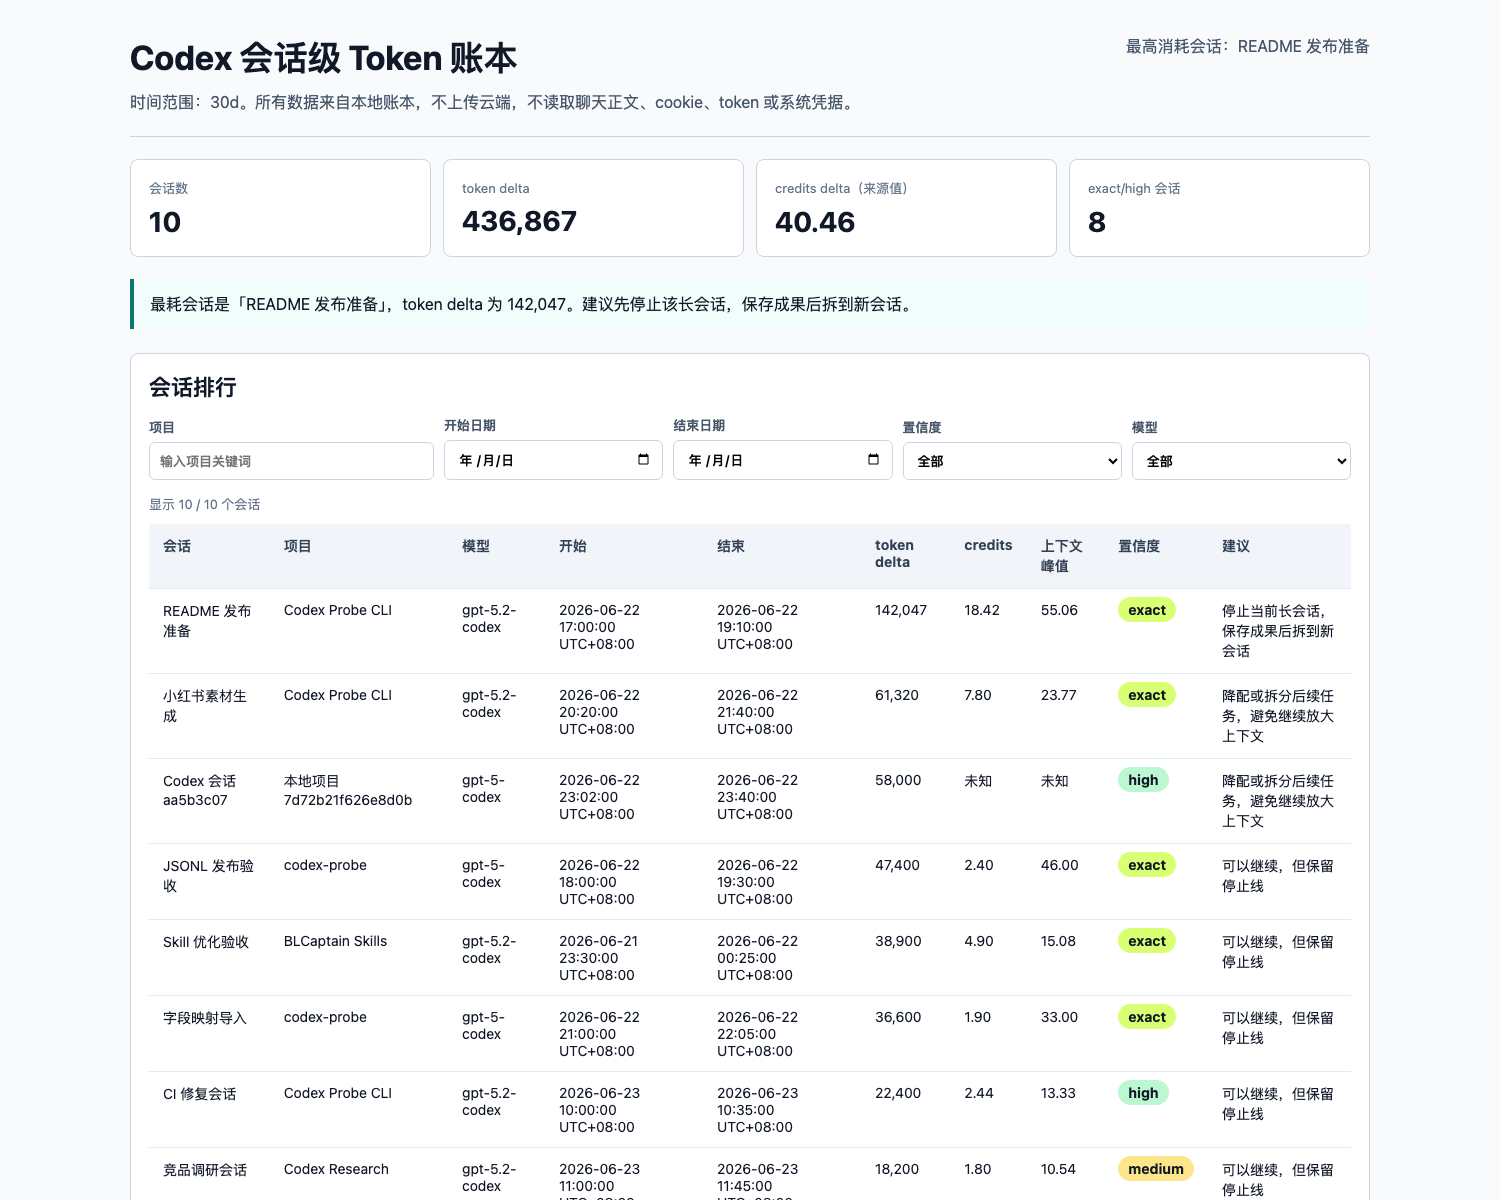
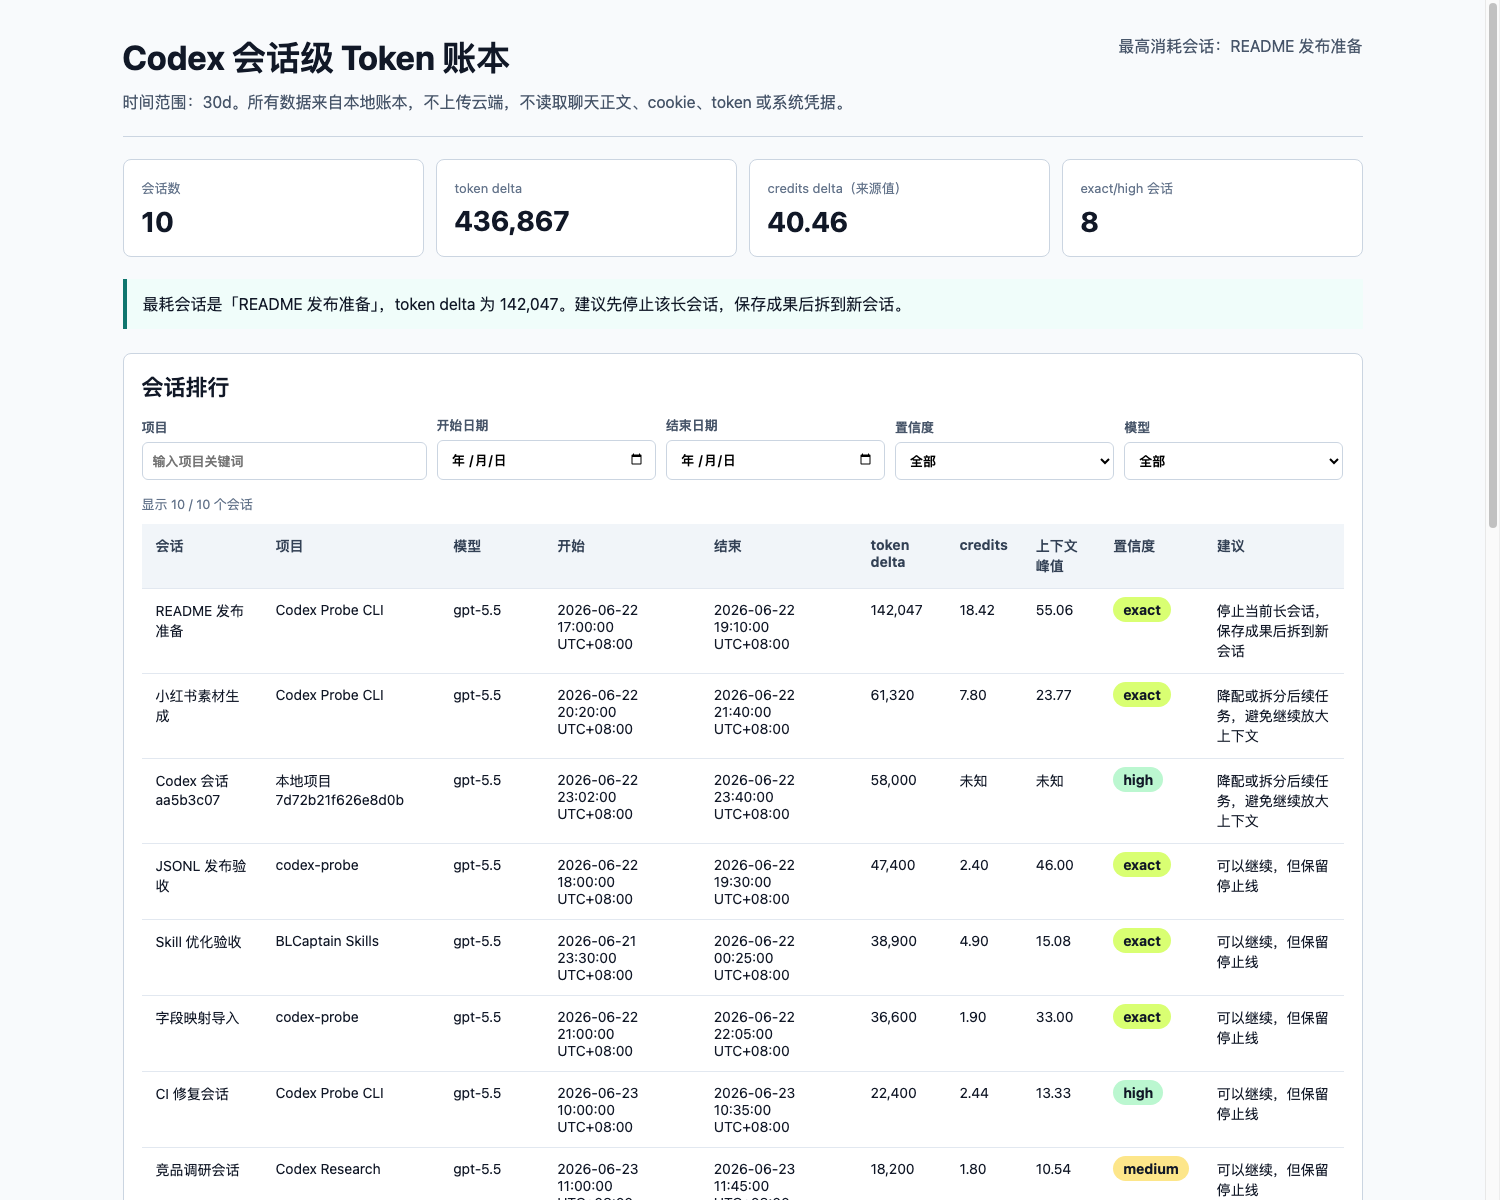
docs: align ledger model examples

diff --git a/examples/reports/ledger/dashboard.html b/examples/reports/ledger/dashboard.html
@@ -26,6 +26,7 @@
     table { width: 100%; min-width: 900px; border-collapse: collapse; background: white; }
     th, td { text-align: left; padding: 12px 14px; border-bottom: 1px solid #e2e8f0; font-size: 14px; vertical-align: top; }
     th { background: #f1f5f9; color: #334155; }
+    th:nth-child(3), td:nth-child(3) { min-width: 76px; white-space: nowrap; }
     .details { display: grid; grid-template-columns: repeat(2, 1fr); gap: 12px; }
     dl { display: grid; grid-template-columns: repeat(2, 1fr); gap: 10px; margin: 12px 0; }
     dt { color: #64748b; font-size: 12px; }
@@ -85,9 +86,7 @@
         <label>模型
           <select id="modelFilter">
             <option value="">全部</option>
-            <option value="gpt-5-codex">gpt-5-codex</option>
-<option value="gpt-5-codex-low">gpt-5-codex-low</option>
-<option value="gpt-5.2-codex">gpt-5.2-codex</option>
+            <option value="gpt-5.5">gpt-5.5</option>
           </select>
         </label>
       </div>
@@ -97,10 +96,10 @@
           <tr><th>会话</th><th>项目</th><th>模型</th><th>开始</th><th>结束</th><th>token delta</th><th>credits</th><th>上下文峰值</th><th>置信度</th><th>建议</th></tr>
         </thead>
         <tbody>
-                  <tr data-project="codex probe cli" data-confidence="exact" data-model="gpt-5.2-codex" data-start="2026-06-22">
+                  <tr data-project="codex probe cli" data-confidence="exact" data-model="gpt-5.5" data-start="2026-06-22">
           <td>README 发布准备</td>
           <td>Codex Probe CLI</td>
-          <td>gpt-5.2-codex</td>
+          <td>gpt-5.5</td>
           <td>2026-06-22 17:00:00 UTC+08:00</td>
           <td>2026-06-22 19:10:00 UTC+08:00</td>
           <td>142,047</td>
@@ -109,10 +108,10 @@
           <td><span class="badge exact">exact</span></td>
           <td>停止当前长会话，保存成果后拆到新会话</td>
         </tr>
-        <tr data-project="codex probe cli" data-confidence="exact" data-model="gpt-5.2-codex" data-start="2026-06-22">
+        <tr data-project="codex probe cli" data-confidence="exact" data-model="gpt-5.5" data-start="2026-06-22">
           <td>小红书素材生成</td>
           <td>Codex Probe CLI</td>
-          <td>gpt-5.2-codex</td>
+          <td>gpt-5.5</td>
           <td>2026-06-22 20:20:00 UTC+08:00</td>
           <td>2026-06-22 21:40:00 UTC+08:00</td>
           <td>61,320</td>
@@ -121,10 +120,10 @@
           <td><span class="badge exact">exact</span></td>
           <td>降配或拆分后续任务，避免继续放大上下文</td>
         </tr>
-        <tr data-project="本地项目 7d72b21f626e8d0b" data-confidence="high" data-model="gpt-5-codex" data-start="2026-06-22">
+        <tr data-project="本地项目 7d72b21f626e8d0b" data-confidence="high" data-model="gpt-5.5" data-start="2026-06-22">
           <td>Codex 会话 aa5b3c07</td>
           <td>本地项目 7d72b21f626e8d0b</td>
-          <td>gpt-5-codex</td>
+          <td>gpt-5.5</td>
           <td>2026-06-22 23:02:00 UTC+08:00</td>
           <td>2026-06-22 23:40:00 UTC+08:00</td>
           <td>58,000</td>
@@ -133,10 +132,10 @@
           <td><span class="badge high">high</span></td>
           <td>降配或拆分后续任务，避免继续放大上下文</td>
         </tr>
-        <tr data-project="codex-probe" data-confidence="exact" data-model="gpt-5-codex" data-start="2026-06-22">
+        <tr data-project="codex-probe" data-confidence="exact" data-model="gpt-5.5" data-start="2026-06-22">
           <td>JSONL 发布验收</td>
           <td>codex-probe</td>
-          <td>gpt-5-codex</td>
+          <td>gpt-5.5</td>
           <td>2026-06-22 18:00:00 UTC+08:00</td>
           <td>2026-06-22 19:30:00 UTC+08:00</td>
           <td>47,400</td>
@@ -145,10 +144,10 @@
           <td><span class="badge exact">exact</span></td>
           <td>可以继续，但保留停止线</td>
         </tr>
-        <tr data-project="blcaptain skills" data-confidence="exact" data-model="gpt-5.2-codex" data-start="2026-06-21">
+        <tr data-project="blcaptain skills" data-confidence="exact" data-model="gpt-5.5" data-start="2026-06-21">
           <td>Skill 优化验收</td>
           <td>BLCaptain Skills</td>
-          <td>gpt-5.2-codex</td>
+          <td>gpt-5.5</td>
           <td>2026-06-21 23:30:00 UTC+08:00</td>
           <td>2026-06-22 00:25:00 UTC+08:00</td>
           <td>38,900</td>
@@ -157,10 +156,10 @@
           <td><span class="badge exact">exact</span></td>
           <td>可以继续，但保留停止线</td>
         </tr>
-        <tr data-project="codex-probe" data-confidence="exact" data-model="gpt-5-codex" data-start="2026-06-22">
+        <tr data-project="codex-probe" data-confidence="exact" data-model="gpt-5.5" data-start="2026-06-22">
           <td>字段映射导入</td>
           <td>codex-probe</td>
-          <td>gpt-5-codex</td>
+          <td>gpt-5.5</td>
           <td>2026-06-22 21:00:00 UTC+08:00</td>
           <td>2026-06-22 22:05:00 UTC+08:00</td>
           <td>36,600</td>
@@ -169,10 +168,10 @@
           <td><span class="badge exact">exact</span></td>
           <td>可以继续，但保留停止线</td>
         </tr>
-        <tr data-project="codex probe cli" data-confidence="high" data-model="gpt-5.2-codex" data-start="2026-06-23">
+        <tr data-project="codex probe cli" data-confidence="high" data-model="gpt-5.5" data-start="2026-06-23">
           <td>CI 修复会话</td>
           <td>Codex Probe CLI</td>
-          <td>gpt-5.2-codex</td>
+          <td>gpt-5.5</td>
           <td>2026-06-23 10:00:00 UTC+08:00</td>
           <td>2026-06-23 10:35:00 UTC+08:00</td>
           <td>22,400</td>
@@ -181,10 +180,10 @@
           <td><span class="badge high">high</span></td>
           <td>可以继续，但保留停止线</td>
         </tr>
-        <tr data-project="codex research" data-confidence="medium" data-model="gpt-5.2-codex" data-start="2026-06-23">
+        <tr data-project="codex research" data-confidence="medium" data-model="gpt-5.5" data-start="2026-06-23">
           <td>竞品调研会话</td>
           <td>Codex Research</td>
-          <td>gpt-5.2-codex</td>
+          <td>gpt-5.5</td>
           <td>2026-06-23 11:00:00 UTC+08:00</td>
           <td>2026-06-23 11:45:00 UTC+08:00</td>
           <td>18,200</td>
@@ -205,10 +204,10 @@
           <td><span class="badge low">low</span></td>
           <td>可以继续，但保留停止线</td>
         </tr>
-        <tr data-project="codex-probe" data-confidence="exact" data-model="gpt-5-codex-low" data-start="2026-06-22">
+        <tr data-project="codex-probe" data-confidence="exact" data-model="gpt-5.5" data-start="2026-06-22">
           <td>JSONL 轻量改文案</td>
           <td>codex-probe</td>
-          <td>gpt-5-codex-low</td>
+          <td>gpt-5.5</td>
           <td>2026-06-22 20:00:00 UTC+08:00</td>
           <td>2026-06-22 20:18:00 UTC+08:00</td>
           <td>5,600</td>

diff --git a/tests/test_cli_e2e.py b/tests/test_cli_e2e.py
@@ -267,6 +267,9 @@ class CliE2ETests(unittest.TestCase):
             self.assertIn("projectFilter", html)
             self.assertIn("confidenceFilter", html)
             self.assertIn("modelFilter", html)
+            self.assertIn("gpt-5.5", html)
+            self.assertNotIn("gpt-5.2-codex", html)
+            self.assertNotIn("gpt-5-codex-low", html)
             self.assertNotIn("cookie=", html)
 
             status_page = tmp_path / "watch-status.html"

diff --git a/src/codex_usage_skill_probe/ledger_reports.py b/src/codex_usage_skill_probe/ledger_reports.py
@@ -362,6 +362,7 @@ def render_dashboard_html(sessions: list[SessionSummary], range_label: str) -> s
     table {{ width: 100%; min-width: 900px; border-collapse: collapse; background: white; }}
     th, td {{ text-align: left; padding: 12px 14px; border-bottom: 1px solid #e2e8f0; font-size: 14px; vertical-align: top; }}
     th {{ background: #f1f5f9; color: #334155; }}
+    th:nth-child(3), td:nth-child(3) {{ min-width: 76px; white-space: nowrap; }}
     .details {{ display: grid; grid-template-columns: repeat(2, 1fr); gap: 12px; }}
     dl {{ display: grid; grid-template-columns: repeat(2, 1fr); gap: 10px; margin: 12px 0; }}
     dt {{ color: #64748b; font-size: 12px; }}

diff --git a/tests/test_ledger.py b/tests/test_ledger.py
@@ -96,6 +96,7 @@ class LedgerTests(unittest.TestCase):
         self.assertEqual(len(sessions), 1)
         self.assertEqual(sessions[0].token_delta, 58000)
         self.assertEqual(sessions[0].confidence_level, "high")
+        self.assertEqual(sessions[0].model, "gpt-5.5")
         self.assertIn("降配", sessions[0].recommendation)
 
     def test_reports_show_local_time_and_precision_notes(self):

diff --git a/examples/reports/ledger/privacy-report.md b/examples/reports/ledger/privacy-report.md
@@ -14,22 +14,22 @@
 
 | 时间 | 动作 | 摘要 |
 |---|---|---|
-| 2026-06-23T12:42:27+00:00 | source_upserted | {"confidence_ceiling": "exact", "enabled": false, "source_type": "official_export"} |
-| 2026-06-23T12:42:27+00:00 | source_upserted | {"confidence_ceiling": "high", "enabled": false, "source_type": "snapshot_delta"} |
-| 2026-06-23T12:42:27+00:00 | source_upserted | {"confidence_ceiling": "high", "enabled": false, "source_type": "local_status"} |
-| 2026-06-23T12:42:27+00:00 | source_upserted | {"confidence_ceiling": "high", "enabled": false, "source_type": "local_codex_rollout"} |
-| 2026-06-23T12:42:27+00:00 | source_upserted | {"confidence_ceiling": "medium", "enabled": false, "source_type": "desktop_visible"} |
-| 2026-06-23T12:42:27+00:00 | ledger_initialized | {"db_name": "ledger.db", "source_count": 5} |
-| 2026-06-23T12:42:27+00:00 | source_upserted | {"confidence_ceiling": "exact", "enabled": true, "source_type": "official_export"} |
-| 2026-06-23T12:42:27+00:00 | official_export_imported | {"filename": "official-export.csv", "format": "csv", "sessions": 3, "snapshots": 3} |
-| 2026-06-23T12:42:27+00:00 | source_upserted | {"confidence_ceiling": "exact", "enabled": true, "source_type": "official_export"} |
-| 2026-06-23T12:42:27+00:00 | official_export_imported | {"filename": "official-export.jsonl", "format": "jsonl", "sessions": 2, "snapshots": 2} |
-| 2026-06-23T12:42:27+00:00 | source_upserted | {"confidence_ceiling": "exact", "enabled": true, "source_type": "official_export"} |
-| 2026-06-23T12:42:27+00:00 | official_export_imported | {"filename": "official-export-alt.json", "format": "json", "sessions": 1, "snapshots": 1} |
-| 2026-06-23T12:42:27+00:00 | source_upserted | {"confidence_ceiling": "high", "enabled": true, "source_type": "snapshot_delta"} |
-| 2026-06-23T12:42:27+00:00 | snapshot_delta_imported | {"filename": "snapshot-delta.json", "snapshots": 5} |
-| 2026-06-23T12:42:27+00:00 | source_upserted | {"confidence_ceiling": "high", "enabled": true, "source_type": "local_codex_rollout"} |
-| 2026-06-23T12:42:27+00:00 | local_codex_history_imported | {"files": 1, "imported": 2, "root_hash": "a6d05971f2bf6c82", "skipped_duplicates": 0, "token_records": 2} |
+| 2026-06-23T13:05:55+00:00 | source_upserted | {"confidence_ceiling": "exact", "enabled": false, "source_type": "official_export"} |
+| 2026-06-23T13:05:55+00:00 | source_upserted | {"confidence_ceiling": "high", "enabled": false, "source_type": "snapshot_delta"} |
+| 2026-06-23T13:05:55+00:00 | source_upserted | {"confidence_ceiling": "high", "enabled": false, "source_type": "local_status"} |
+| 2026-06-23T13:05:55+00:00 | source_upserted | {"confidence_ceiling": "high", "enabled": false, "source_type": "local_codex_rollout"} |
+| 2026-06-23T13:05:55+00:00 | source_upserted | {"confidence_ceiling": "medium", "enabled": false, "source_type": "desktop_visible"} |
+| 2026-06-23T13:05:55+00:00 | ledger_initialized | {"db_name": "codex-probe-ledger-example-13651.db", "source_count": 5} |
+| 2026-06-23T13:05:55+00:00 | source_upserted | {"confidence_ceiling": "exact", "enabled": true, "source_type": "official_export"} |
+| 2026-06-23T13:05:55+00:00 | official_export_imported | {"filename": "official-export.csv", "format": "csv", "sessions": 3, "snapshots": 3} |
+| 2026-06-23T13:05:55+00:00 | source_upserted | {"confidence_ceiling": "exact", "enabled": true, "source_type": "official_export"} |
+| 2026-06-23T13:05:55+00:00 | official_export_imported | {"filename": "official-export.jsonl", "format": "jsonl", "sessions": 2, "snapshots": 2} |
+| 2026-06-23T13:05:55+00:00 | source_upserted | {"confidence_ceiling": "exact", "enabled": true, "source_type": "official_export"} |
+| 2026-06-23T13:05:55+00:00 | official_export_imported | {"filename": "official-export-alt.json", "format": "json", "sessions": 1, "snapshots": 1} |
+| 2026-06-23T13:05:55+00:00 | source_upserted | {"confidence_ceiling": "high", "enabled": true, "source_type": "snapshot_delta"} |
+| 2026-06-23T13:05:55+00:00 | snapshot_delta_imported | {"filename": "snapshot-delta.json", "snapshots": 5} |
+| 2026-06-23T13:05:55+00:00 | source_upserted | {"confidence_ceiling": "high", "enabled": true, "source_type": "local_codex_rollout"} |
+| 2026-06-23T13:05:55+00:00 | local_codex_history_imported | {"files": 1, "imported": 2, "root_hash": "a6d05971f2bf6c82", "skipped_duplicates": 0, "token_records": 2} |
 
 ## 明确不读取
 

diff --git a/tasks/todo.md b/tasks/todo.md
@@ -111,3 +111,12 @@
 - [x] 将包版本、CLI 版本、README badge、发布验收标准和 CHANGELOG 同步到 `0.6.0`。
 - [x] 中英文 README 已补充一键 setup、Dashboard 筛选、watcher 状态页和脱敏 rollout 样本采集。
 - [x] 安装 smoke 通过：临时虚拟环境中 `python -m pip install .` 成功，`codex-probe --version` 返回 `codex-probe 0.6.0`。
+
+## README 模型示例修正
+
+- [x] 确认模型列来自示例数据和数据源 `model` 字段，不是解析器误判。
+- [x] 将 ledger 公开样本统一为 `gpt-5.5`，避免 README 截图出现旧模型名。
+- [x] 补充 README 说明：CLI 原样展示数据源模型字段，不会猜测或强制改写。
+- [x] 重新生成示例报告、Dashboard HTML 和 README PNG 截图。
+- [x] 验证通过：17 个单元测试、compileall、acceptance；证据目录为 `acceptance-artifacts/20260623T130952Z/`。
+- [x] 审计通过：候选文件 18 个，敏感扫描仅命中说明性文本、测试断言和 README 公开邮箱；旧模型名仅保留在测试禁止断言中。

diff --git a/tasks/lessons.md b/tasks/lessons.md
@@ -1,0 +1,7 @@
+# 经验记录
+
+## README 示例截图必须和公开样本口径一致
+
+- 公开截图中的字段值会被用户当成产品事实；示例模型名、时间、置信度等不能混用旧版本或内部占位命名。
+- 生成 README 截图前，先检查样本、示例报告、Dashboard HTML 和 PNG 是否来自同一批数据。
+- 模型字段必须说明来源：CLI 原样展示数据源提供的 `model` 字段，不做猜测或强制改写。

diff --git a/CHANGELOG.md b/CHANGELOG.md
@@ -1,5 +1,9 @@
 # 变更日志
 
+## 未发布
+
+- 修正 README 会话级 Token 账本示例：统一公开样本模型字段为 `gpt-5.5`，并说明模型列来自数据源 `model` 字段，CLI 不猜测或强制改写。
+
 ## 0.6.0 - 2026-06-23
 
 - 新增 `codex-probe setup`，支持一条命令完成初始化、local history dry-run、报告生成和 Dashboard 打开；`--demo` 可安全使用仓库 synthetic 样本。

diff --git a/examples/ledger-samples/README.md b/examples/ledger-samples/README.md
@@ -1,8 +1,10 @@
 # Ledger 样本库
 
-这些样本用于验证 BLCaptain Codex Probe CLI v0.5.0 的会话级 Token 账本、官方导出适配、本地历史导入和 watcher 能力。
+这些样本用于验证 BLCaptain Codex Probe CLI v0.6.0 的会话级 Token 账本、官方导出适配、本地历史导入和 watcher 能力。
 
 所有数据均为合成或脱敏样本，不包含真实会话 ID、cookie、token、邮箱、手机号或本地用户路径。
+
+公开示例统一使用 `gpt-5.5` 作为模型字段，便于 README 截图阅读。真实导入时，CLI 会原样展示数据源提供的模型名，不会猜测或强制改写。
 
 | 文件 | 数据源 | 覆盖 |
 |---|---|---|

diff --git a/README.en.md b/README.en.md
@@ -67,6 +67,8 @@ Example reports:
   <img src="assets/screenshots/ledger-dashboard.png" alt="Local Codex session-level token ledger dashboard" width="100%">
 </p>
 
+The model column comes from the imported source's `model` field. The CLI preserves model names from official exports, snapshots, or local rollout records; if the source has no model field, it shows an empty or unknown value instead of guessing.
+
 ### Existing Workflows: Task Report and Skill Inspection
 
 | Task-level usage report | Skill / output quality inspection |

diff --git a/README.md b/README.md
@@ -67,6 +67,8 @@ v0.6.0 在真实数据源接入和稳定 watcher 之上，继续补齐 **一键 
   <img src="assets/screenshots/ledger-dashboard.png" alt="本地 Codex 会话级 Token 账本 Dashboard" width="100%">
 </p>
 
+模型列来自导入数据源中的 `model` 字段。CLI 会原样展示官方导出、快照或本地 rollout 提供的模型名；如果数据源没有模型字段，会显示为空或未知，不会猜测或强行改写。
+
 ### 保留能力：任务级报告与 Skill 体检
 
 | 任务级用量报告 | Skill / 输出质量体检 |